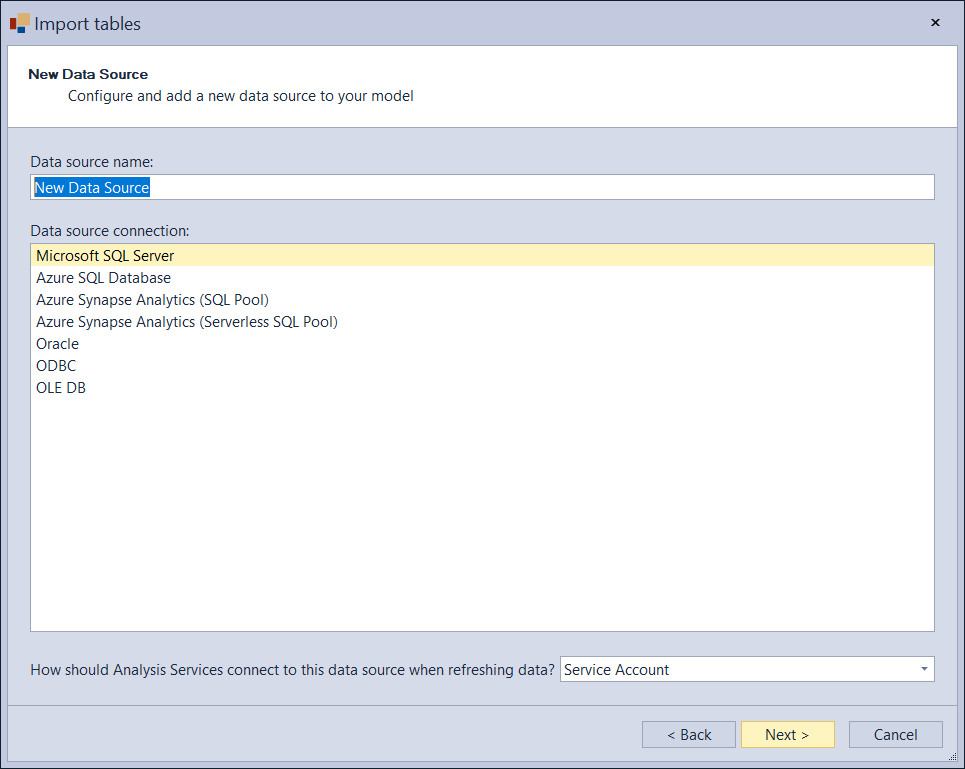
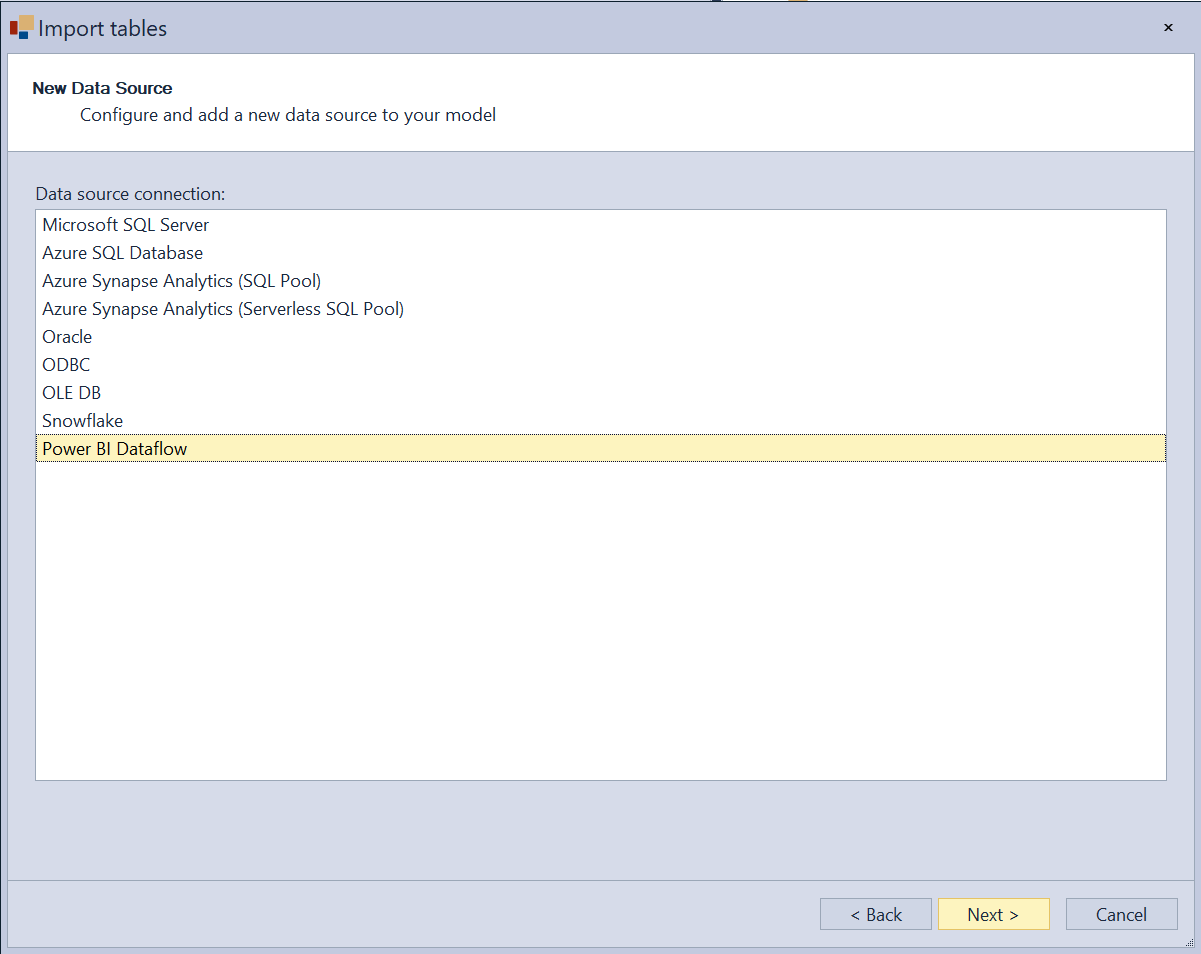
Updated release 3.3.3 notes

Changed region(s): [[0.0, 0.0, 1.0, 1.0], [0.0, 0.9051, 0.0311, 0.9363]]

diff --git a/te3/other/release-notes/3_3_3.md b/te3/other/release-notes/3_3_3.md
@@ -1,0 +1,132 @@
+# Tabular Editor 3.3.3
+
+- Download [Tabular Editor 3.3.3 (64 bit)](https://cdn.tabulareditor.com/files/TabularEditor.3.3.3.Installer.x64.exe) *(recommended)*
+- Download [Tabular Editor 3.3.3](https://cdn.tabulareditor.com/files/TabularEditor.3.3.3.Installer.x86.exe)
+- Portable versions: [x64](https://cdn.tabulareditor.com/files/TabularEditor.3.3.3.x64.zip), [x86](https://cdn.tabulareditor.com/files/TabularEditor.3.3.3.x86.zip)
+- MSI version: [TabularEditor.3.3.3.x64.msi](https://cdn.tabulareditor.com/files/TabularEditor.3.3.3.x64.msi), [TabularEditor.3.3.3.x86.msi](https://cdn.tabulareditor.com/files/TabularEditor.3.3.3.x86.msi)
+
+*If you haven't used Tabular Editor 3 before, you are eligible to a 30 day trial, which can be requested after installation. You can also [purchase a license](https://tabulareditor.com/licensing).*
+
+## Important!
+
+**NOTE**: Tabular Editor 3.3.0 (and newer) uses .NET 6. You may have to install the [.NET 6.0 Runtime for Desktop](https://dotnet.microsoft.com/en-us/download/dotnet/6.0/runtime) before you can launch Tabular Editor 3.3.0 (or newer). Starting from 3.3.1, the Tabular Editor 3 installer will download and install these prerequisites, if they are missing.
+
+## Improvements in 3.3.3
+
+- **The Import Table Wizard now allows you to import tables from a Power BI Dataflow.** Note that this option is only available when working on Power BI datasets. Moreover, Tabular Editor can now perform a schema update of tables based on Power BI dataflows, even when working offline (i.e. when not connected to the Power BI XMLA endpoint).
+- C# scripts: Entering a closing parenthesis or bracket now closes the auto-complete box. Moreover, the pre-selection of the auto-complete box based on the current search string has been improved.
+- C# scripts: Runtime error messages now include stack traces, making debugging easier.
+- The default compatibility level for new Power BI datasets is now 1570.
+- Under **Tools > Preferences > File formats**, we now have a set of options that allow you to specify the default compatibility level and whether or not to use a workspace database, when creating a new model.
+- Instead of throwing a connection error, SQL server connections that fail because of an untrusted certificate, now prompt you if you want to trust the certificate and reconnect.
+- It is now possible to disable automatic formula fix-up (under Tools > Preferences > Modeling Operations), see also [#595](https://github.com/TabularEditor/TabularEditor3/issues/595).
+- Added an .msi version of the installer, which is useful for unattended installations or installations through software packaging.
+- 32 bit installers should now allow installation on 64 bit systems (but not vice versa).
+- Added "Lock column width" right-click menu option on TOM Explorer, table preview, VertiPaq analyzer, etc. When checked, columns are always resized to match the width of the grid, changing the behavior of "Best fit (All columns)". This solves issue [#603](https://github.com/TabularEditor/TabularEditor3/issues/603) and also addresses one of the suggestions in [#595](https://github.com/TabularEditor/TabularEditor3/issues/595).
+- More column options in DAX query results, when right-clicking on a result column header. For example, you can hide/show columns, display a find panel for quickly filtering using a text string, and even group by columns to display the query results hierarchically. Note that sorting/grouping/filtering of query results only happens locally on the cached result (which is typically the first 1000 rows of a query). Adjust your DAX query if you need to perform these operations on the full set of data.
+- BPA rules can now be downloaded from URLs using basic authentication, see [#604](https://github.com/TabularEditor/TabularEditor3/issues/604).
+
+## Bugfixes in 3.3.3
+
+- Fix several issues related to macro compilation/execution, see [#587](https://github.com/TabularEditor/TabularEditor3/issues/587) and [#573](https://github.com/TabularEditor/TabularEditor3/issues/573).
+- Fix issue with calls to `FormatDax` through scripts not working when using daxformatter.com, see [#592](https://github.com/TabularEditor/TabularEditor3/issues/592).
+- Fix issue with scripts not able to call the Error and Warning global methods
+- Fix issue with macros not being able to compile when the code contains an aliased using directive
+- Fix issue with macros NullReferenceException when calling methods like EvaluateDax, etc.
+- Fix issue with installer not checking for the correct version of the VC++ Redistributable prerequisite.
+- Fixed syntax highlighting of unquoted table references which are also keywords (for example 'Currency' is valid as an unquoted table reference in DAX, but it was previously colored as if it was a keyword)
+- Got rid of the Visual C++ Redistributable dependency, which, when not installed, caused Tabular Editor to crash often.
+
+## Bugfixes in 3.3.2
+
+- Fixed a bug in the installer, which caused some files not to be updated when performing an in-place upgrade, which in turn could cause application crashes and other issues, see [#586](https://github.com/TabularEditor/TabularEditor3/issues/586).
+- Added support for the `ExpressionSource` property on the [NamedExpression](xref:TabularEditor.TOMWrapper.NamedExpression) class.
+
+## Improvements in 3.3.1
+
+- New Installer which automatically downloads and installs missing .NET Runtime and VC++ prerequisites, if they are missing.
+- Added support for the DAX [`NETWORKDAYS`](https://dax.guide/NETWORKDAYS/) function.
+- Updated TOM to [19.42.0.4](https://www.nuget.org/packages/Microsoft.AnalysisServices.NetCore.retail.amd64/)
+
+## Bugfixes in 3.3.1
+
+- Fixed an issue with C# tooltips not showing xmldoc comments, unless application launched from installation folder.
+- Semantic Analyzer now correctly reports an error when using special MDX reserved keywords as unquoted table references.
+- Fixed an issue where attempting to deploy a model loaded from a .pbit file would fial.
+- Fixed an issue with compilation of C# scripts and macros. See [#570](https://github.com/TabularEditor/TabularEditor3/issues/570), [#573](https://github.com/TabularEditor/TabularEditor3/issues/573) and [#580](https://github.com/TabularEditor/TabularEditor3/issues/580).
+- Fixed an issue that prevented loading models containing calculation groups with one or more erroneous measures, see [#571](https://github.com/TabularEditor/TabularEditor3/issues/571).
+- Fixed an issue with the diagram not automatically refreshing after reloading a model, see [#572](https://github.com/TabularEditor/TabularEditor3/issues/572).
+- Fixed an issue that prevented the C# script engine from importing certain DLLs, see [#574](https://github.com/TabularEditor/TabularEditor3/issues/574). 
+- Fixed an issue that prevented connecting to Power BI Desktop after making a choice in the "Local instances" dropdown, see [#579](https://github.com/TabularEditor/TabularEditor3/issues/579).
+- Fixed an issue where the TOM Explorer would select all objects (even when filtering the TOM Explorer), when pressing CTRL+A, see [#582](https://github.com/TabularEditor/TabularEditor3/issues/582).
+- Various stability improvements based on anonymous telemetry/error reports.
+
+## Improvements in 3.3.0
+
+- Updated TOM to [19.39.2.2](https://www.nuget.org/packages/Microsoft.AnalysisServices.NetCore.retail.amd64/)
+- Tabular Editor 3 now uses [Roslyn](https://github.com/dotnet/roslyn) for C# script compilation. This means that your C# scripts can now use all the wonderful new language features of [C# 10.0](https://docs.microsoft.com/en-us/dotnet/csharp/whats-new/csharp-10). Moreover, you can define classes and other types directly within your scripts. Last but not least, we finally have Roslyn-powered **code completion** and **calltips** for C# scripts (see screenshot).
+  ![Csharp Intellisense](../../../images/csharp-intellisense.png)
+- On a similar note, make sure to check out our new [Scripting API](xref:api-index) docs site, where you'll find up-to-date documentation for all of the objects and members you can access through Tabular Editor 3's C# scripting feature.
+- We also have a great improvement for the auto complete feature in our DAX editors, which will now show tooltips providing more information about the objects in the auto complete list. The tooltip will show the `Description` of measures, columns, etc. If no description is specified, we'll show the first 10 lines of DAX code on the object:
+  ![Dax Intellisense Improv](../../../images/dax-intellisense-improv.png)
+- When opening a model from Analysis Services or the Power BI XMLA endpoint, we now provide options to help you avoid making changes to the model by mistake, which is useful when you have multiple instances of Tabular Editor 3 open. The **Mode** dropdown (see screenshot below) lets you open a model in read-only or read/refresh-only mode. The **Status bar color** dropdown lets you set a color for Tabular Editor 3's status bar, so you can easily distinguish for example production, test, and dev models that are simultaneously open in different instances of Tabular Editor. See [#558](https://github.com/TabularEditor/TabularEditor3/issues/558).
+  ![New Open Fromdb Options](../../../images/new-open-fromdb-options.png)
+- We have finally added the "Duplicate object" context menu option (Ctrl+D) in the TOM Explorer, see [#501](https://github.com/TabularEditor/TabularEditor3/issues/501).
+- Added support for Snowflake OAuth and ExternalBrowser authentication, see [#546](https://github.com/TabularEditor/TabularEditor3/issues/546).
+- Property grid now has a search bar.
+- Added more proxy configuration options under **Tools** > **Preferences** > **Proxy Settings**.
+- Updated SQL Native Client library to the latest version. Connections to SQL Server now require encryption by default (unless connecting to localhost).
+- Added a **Refresh clear** option at the model, table and partition levels, see [#511](https://github.com/TabularEditor/TabularEditor3/issues/511).
+- Added checkbox to open data models without workspace database, [#523](https://github.com/TabularEditor/TabularEditor3/issues/523).
+
+
+## Bugfixes in 3.3.0
+
+- Fixed an issue with how the semantic analyzer handles the `NAMEOF` DAX function, which could sometimes cause a crash, see [#538](https://github.com/TabularEditor/TabularEditor3/issues/538).
+- Property grids and collection editors now use the DevExpress com are now skinned and scaled correctly on hi-dpi monitors, see [#548](https://github.com/TabularEditor/TabularEditor3/issues/548).
+- Fixed a bug where the **Refresh model** submenu would sometimes disappear from the **Model** menu.
+- "**Update table schema...**" will now correctly deal with columns where the name has only changed in casing.
+- TE3 Business Edition now prevents adding multiple partitions/perspectives to AS models (which will prevent TE3 from loading the same model later due to edition restrictions).
+- Fixed an issue where editor actions would sometimes be disabled, see [#519](https://github.com/TabularEditor/TabularEditor3/issues/519).
+- Fixed an issue with the **Cancel** and **Cancel All** buttons not being enabled after starting a refresh operation.
+- Fixed an issue where refresh progress would not show when refreshing a Power BI model through the XMLA endpoint.
+- Fix typo, see [#553](https://github.com/TabularEditor/TabularEditor3/issues/553).
+- Fix issue with calltips appearing despite unticking the "Show parameter info automatically" setting, see [#545](https://github.com/TabularEditor/TabularEditor3/issues/545).
+- Fix comment/uncomment bug, see [#536](https://github.com/TabularEditor/TabularEditor3/issues/536).
+- Fix issue with wrong return type on CUSTOMDATA(), see [#527](https://github.com/TabularEditor/TabularEditor3/issues/527).
+- In the data preview, when filtering a string column for "(Blanks)", we now include both BLANK and "" strings, see [#524](https://github.com/TabularEditor/TabularEditor3/issues/524).
+- Fix "Tabular Editor was not able to open the specified file" error when attempting to open a database.json file through the generic open file dialog, while "All files" is selected in the dropdown. See also [#563](https://github.com/TabularEditor/TabularEditor3/issues/563).
+- Fix bug with Save feature not respecting serialization settings checkbox choice.
+- Fix color of link in status bar. See [#521](https://github.com/TabularEditor/TabularEditor3/issues/521).
+- Fix crash when attempting to clear orphaned traces in the preferences dialog.
+- Fix false positive semantic error issue when comparing with variants, see [#516](https://github.com/TabularEditor/TabularEditor3/issues/516).
+- Fix issue with DAX generation when debugging a variable assignment containing IF/SWITCH function calls, see [#513](https://github.com/TabularEditor/TabularEditor3/issues/513).
+- Do not allow WEEK as interval parameter for DATEADD. See [#508](https://github.com/TabularEditor/TabularEditor3/issues/508).
+- Show calc item error indicator on the calc group table, see [#506](https://github.com/TabularEditor/TabularEditor3/issues/506).
+- Fix issue with c# script method `ImportProperties` not correctly resolving object paths.
+- Added link to self-service portal when number of installations exceeded. Updated URLs/links to various places
+- Better DAX code generation when debugging USERELATIONSHIP.
+- Allow unchecking saving model metadata backup preference. Better error message when model metadata backup fails. Allow cancellation of model metadata backup.
+- Fixed an issue with REMOVEFILTERS. See [#562](https://github.com/TabularEditor/TabularEditor3/issues/562).
+
+---
+## Coming from Tabular Editor 2.x?
+
+Watch [this video](https://www.youtube.com/watch?v=pt3DdcjfImY) to get an idea of the new features in Tabular Editor 3. Also, make sure to check our [onboarding guide](https://docs.tabulareditor.com/onboarding/index.html).
+
+**Tabular Editor 3 major features overview:**
+- Fully customizable IDE, with multi-monitor, Hi-DPI support and themes
+- New powerful DAX code editor with auto-complete, syntax checking, code folding and much, much more
+- *Workspace mode, allowing you to save your changes to disk and synchronise model metadata to Analysis Services simultaneously
+- *Preview table data with infinite scrolling, create PivotGrids or write DAX queries to browse the model or test calculation logic
+- *Schedule data refreshes
+- Update Table Schemas on both Provider and Structured Data Sources (yes, even for M queries!)
+- Create data model diagrams
+- Create DAX scripts that allow you to edit multiple measures or other calculated objects in a single document
+- Record C# scripts and save as macros (formerly known as "Custom Actions")
+- VertiPaq Analyzer integration
+- *DAX debugger
+
+*=Only while connected to an instance of Analysis Services or Power BI
+
+---

diff --git a/te3/other/downloads.md b/te3/other/downloads.md
@@ -10,11 +10,12 @@ This page provides download and installation instructions for Tabular Editor 3.
 
 ## Production builds
 
-- Latest production release (x64): [TabularEditor.3.3.2.Installer.x64.exe](https://cdn.tabulareditor.com/files/TabularEditor.3.3.2.Installer.x64.exe)
-- Latest production release (x86): [TabularEditor.3.3.2.Installer.x86.exe](https://cdn.tabulareditor.com/files/TabularEditor.3.3.2.Installer.x86.exe)
-- Portable version: [TabularEditor.3.3.2.x64.zip](https://cdn.tabulareditor.com/files/TabularEditor.3.3.2.x64.zip), [TabularEditor.3.3.2.x86.zip](https://cdn.tabulareditor.com/files/TabularEditor.3.3.2.x86.zip)
+- Latest production release (x64): [TabularEditor.3.3.3.Installer.x64.exe](https://cdn.tabulareditor.com/files/TabularEditor.3.3.3.Installer.x64.exe)
+- Latest production release (x86): [TabularEditor.3.3.3.Installer.x86.exe](https://cdn.tabulareditor.com/files/TabularEditor.3.3.3.Installer.x86.exe)
+- Portable version: [TabularEditor.3.3.3.x64.zip](https://cdn.tabulareditor.com/files/TabularEditor.3.3.3.x64.zip), [TabularEditor.3.3.3.x86.zip](https://cdn.tabulareditor.com/files/TabularEditor.3.3.3.x86.zip)
+- MSI version: [TabularEditor.3.3.3.x64.msi](https://cdn.tabulareditor.com/files/TabularEditor.3.3.3.x64.msi), [TabularEditor.3.3.3.x86.msi](https://cdn.tabulareditor.com/files/TabularEditor.3.3.3.x86.msi)
 
-Read the [latest release notes](release-notes/3_3_2.md).
+Read the [latest release notes](release-notes/3_3_3.md).
 
 ## Installation Instructions
 
@@ -26,6 +27,13 @@ It is not necessary to remove previous installations when upgrading to a newer v
 
 ## History
 
+- 2022-07-02 (*[Release notes](release-notes/3_3_3.md)*):
+  - [TabularEditor.3.3.3.Installer.x64.exe](https://cdn.tabulareditor.com/files/TabularEditor.3.3.3.Installer.x64.exe)
+  - [TabularEditor.3.3.3.Installer.x86.exe](https://cdn.tabulareditor.com/files/TabularEditor.3.3.3.Installer.x86.exe)
+  - [TabularEditor.3.3.3.x64.zip](https://cdn.tabulareditor.com/files/TabularEditor.3.3.3.x64.zip)
+  - [TabularEditor.3.3.3.x86.zip](https://cdn.tabulareditor.com/files/TabularEditor.3.3.3.x86.zip)
+  - [TabularEditor.3.3.3.x64.msi](https://cdn.tabulareditor.com/files/TabularEditor.3.3.3.x64.msi)
+  - [TabularEditor.3.3.3.x86.msi](https://cdn.tabulareditor.com/files/TabularEditor.3.3.3.x86.msi)
 - 2022-06-28 (*[Release notes](release-notes/3_3_2.md)*):
   - [TabularEditor.3.3.2.Installer.x64.exe](https://cdn.tabulareditor.com/files/TabularEditor.3.3.2.Installer.x64.exe)
   - [TabularEditor.3.3.2.Installer.x86.exe](https://cdn.tabulareditor.com/files/TabularEditor.3.3.2.Installer.x86.exe)

diff --git a/te3/import-tables.partial.md b/te3/import-tables.partial.md
@@ -28,6 +28,19 @@ If you need to create a new data source, Tabular Editor provides you with a list
 
 Note that Analysis Services and Power BI in particular supports a much wider range of data sources, however the sources listed in the screenshot above are the ones that Tabular Editor is able to connect for the purpose of automatically importing table metadata (that is, column names and data types). For data sources not on this list, Tabular Editor 3 can still [update table schema by utilising Analysis Services](#updating-table-schema-through-analysis-services).
 
+Currently, the following data sources are natively supported by Tabular Editor 3:
+
+- SQL Server databases
+- Azure SQL databases
+- Azure Synapse Analytics (SQL pool and Serverless SQL pool)
+- Oracle
+- ODBC
+- OLE DB
+- Snowflake*
+- Power BI Dataflow*
+
+*=These data sources are only supported as implicit data sources in Power BI data models. They are not available in SSAS / Azure AS.
+
 After choosing one of the data sources on the list, Tabular Editor displays a connection details dialog, allowing you to specify server addresses, credentials, etc. specific to the data source you want to create. The settings that you specify should be those that Tabular Editor should use for establishing a local connection to the source. These settings are saved in your @user-options.
 
 ![Sql Auth](~/images/sql-auth.png)

diff --git a/te3/other/release-history.md b/te3/other/release-history.md
@@ -1,5 +1,15 @@
 # Full release history
 
+- 2022-07-02 (*[Release notes](release-notes/3_3_3.md)*):
+  - [TabularEditor.3.3.3.Installer.x64.exe](https://cdn.tabulareditor.com/files/TabularEditor.3.3.3.Installer.x64.exe)
+  - [TabularEditor.3.3.3.Installer.x86.exe](https://cdn.tabulareditor.com/files/TabularEditor.3.3.3.Installer.x86.exe)
+  - [TabularEditor.3.3.3.x64.zip](https://cdn.tabulareditor.com/files/TabularEditor.3.3.3.x64.zip)
+  - [TabularEditor.3.3.3.x86.zip](https://cdn.tabulareditor.com/files/TabularEditor.3.3.3.x86.zip)
+- 2022-06-28 (*[Release notes](release-notes/3_3_2.md)*):
+  - [TabularEditor.3.3.2.Installer.x64.exe](https://cdn.tabulareditor.com/files/TabularEditor.3.3.2.Installer.x64.exe)
+  - [TabularEditor.3.3.2.Installer.x86.exe](https://cdn.tabulareditor.com/files/TabularEditor.3.3.2.Installer.x86.exe)
+  - [TabularEditor.3.3.2.x64.zip](https://cdn.tabulareditor.com/files/TabularEditor.3.3.2.x64.zip)
+  - [TabularEditor.3.3.2.x86.zip](https://cdn.tabulareditor.com/files/TabularEditor.3.3.2.x86.zip)
 - 2022-06-16 (*[Release notes](release-notes/3_3_0.md)*):
   - [TabularEditor.3.3.0.x64.msi](https://cdn.tabulareditor.com/files/TabularEditor.3.3.0.x64.msi)
   - [TabularEditor.3.3.0.x86.msi](https://cdn.tabulareditor.com/files/TabularEditor.3.3.0.x86.msi)

diff --git a/te3/other/release-notes/3_2_3.md b/te3/other/release-notes/3_2_3.md
@@ -14,7 +14,7 @@
 - Allow specifying MemberID on .AddExternalMember and .AddWindowsMember, see [#484](https://github.com/TabularEditor/TabularEditor3/issues/484) and [#483](https://github.com/TabularEditor/TabularEditor3/issues/483)
 - Allow specifying raw XMLA in calls to ExecuteCommand, as discussed in [#495](https://github.com/TabularEditor/TabularEditor3/issues/495)
 - Allow copying Pivot Grid MDX query to clipboard by right-clicking anywhere in the Pivot Grid, see [#494](https://github.com/TabularEditor/TabularEditor3/issues/494).
-- Improved BPA view (show severity, category) as well as tooltips. See [#489](github.com/TabularEditor/TabularEditor3/issues).
+- Improved BPA view (show severity, category) as well as tooltips. See [#489](https://github.com/TabularEditor/TabularEditor3/issues/489).
 - Change default on the VertiPaq Analyzer "Read statistics from data" setting to "false" to align with DAX Studio / Bravo.
 - Added new option to make Auto Complete popups less aggressive (only popup after entering a letter character), see[#459](https://github.com/TabularEditor/TabularEditor3/issues/459/). Locate this setting under **Tools > Preferences > DAX Editor > Code Assist**.
 
